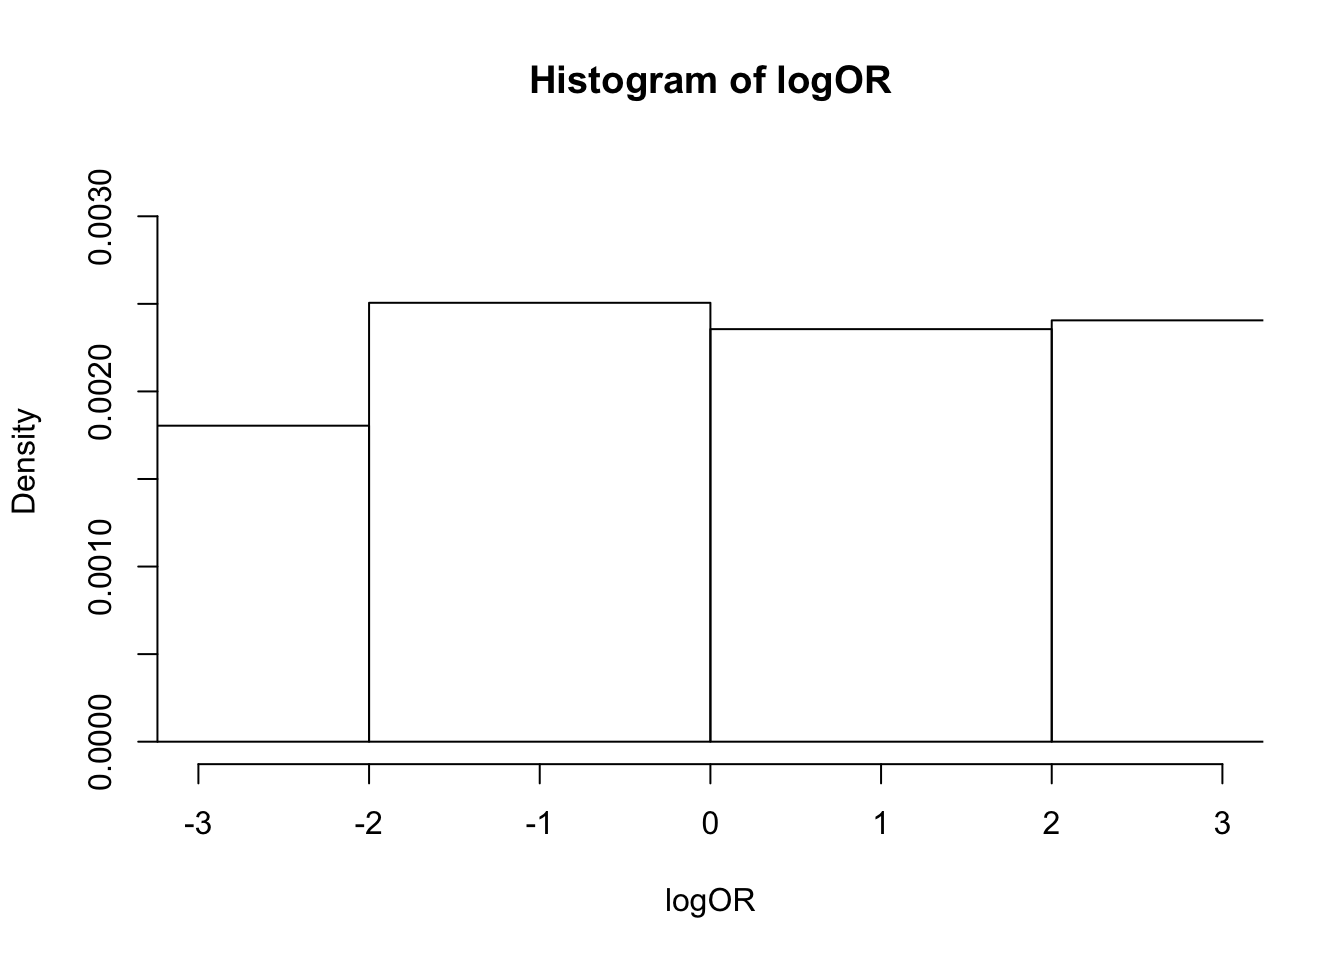
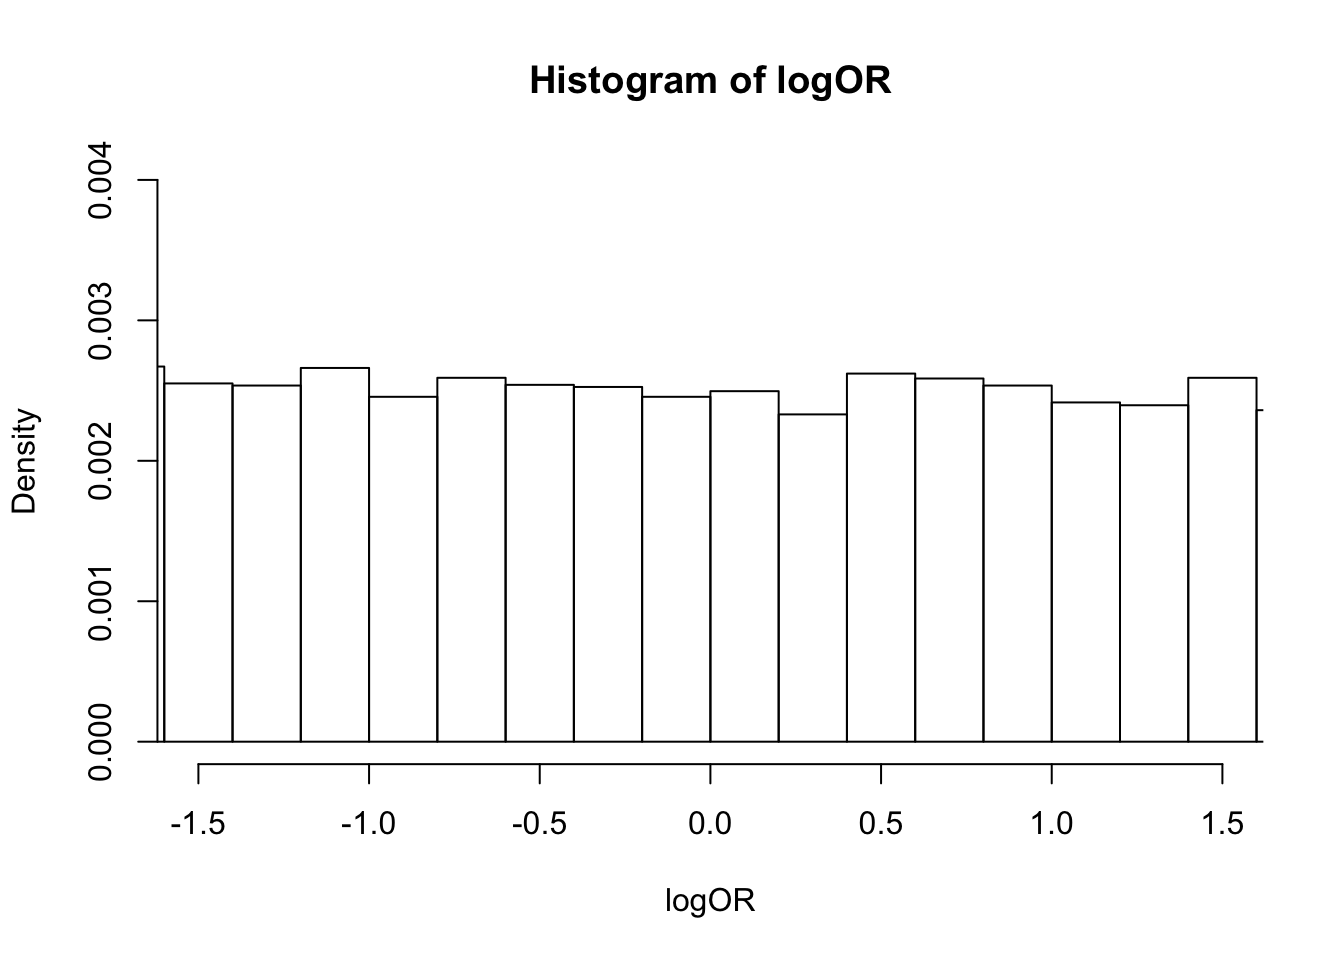
Build site.

diff --git a/docs/trick.html b/docs/trick.html
@@ -353,7 +353,7 @@ div.section {
 <div class="tab-content">
 <div id="summary" class="tab-pane fade in active">
 <p>
-<strong>Last updated:</strong> 2019-07-07
+<strong>Last updated:</strong> 2019-07-08
 </p>
 <p>
 <strong>Checks:</strong> <span class="glyphicon glyphicon-ok text-success" aria-hidden="true"></span> 6 <span class="glyphicon glyphicon-exclamation-sign text-danger" aria-hidden="true"></span> 0
@@ -432,10 +432,10 @@ This reproducible <a href="http://rmarkdown.rstudio.com">R Markdown</a> analysis
 <div class="panel panel-default">
 <div class="panel-heading">
 <p class="panel-title">
-<a data-toggle="collapse" data-parent="#workflowr-checks" href="#strongRepositoryversionstrongahrefhttpsgithubcomsurbutnejmtreeda11f1fd7d65dbf8a8b9609016c417c1a2b1150ftargetblankda11f1fa"> <span class="glyphicon glyphicon-ok text-success" aria-hidden="true"></span> <strong>Repository version:</strong> <a href="https://github.com/surbut/nejm/tree/da11f1fd7d65dbf8a8b9609016c417c1a2b1150f" target="_blank">da11f1f</a> </a>
+<a data-toggle="collapse" data-parent="#workflowr-checks" href="#strongRepositoryversionstrongahrefhttpsgithubcomsurbutnejmtreea7eb1261b76b264e1ce67e476dbbb4e72810636dtargetblanka7eb126a"> <span class="glyphicon glyphicon-ok text-success" aria-hidden="true"></span> <strong>Repository version:</strong> <a href="https://github.com/surbut/nejm/tree/a7eb1261b76b264e1ce67e476dbbb4e72810636d" target="_blank">a7eb126</a> </a>
 </p>
 </div>
[2 lines of base64/hex data omitted]
 <div class="panel-body">
 <p>
 Great! You are using Git for version control. Tracking code development and connecting the code version to the results is critical for reproducibility. The version displayed above was the version of the Git repository at the time these results were generated. <br><br> Note that you need to be careful to ensure that all relevant files for the analysis have been committed to Git prior to generating the results (you can use <code>wflow_publish</code> or <code>wflow_git_commit</code>). workflowr only checks the R Markdown file, but you know if there are other scripts or data files that it depends on. Below is the status of the Git repository when the results were generated:
@@ -490,6 +490,40 @@ Message
 Rmd
 </td>
 <td>
+<a href="https://github.com/surbut/nejm/blob/a7eb1261b76b264e1ce67e476dbbb4e72810636d/analysis/trick.Rmd" target="_blank">a7eb126</a>
+</td>
+<td>
+Sarah Urbut
+</td>
+<td>
+2019-07-08
+</td>
+<td>
+wflow_publish(“~/nejm/analysis/trick.Rmd”)
+</td>
+</tr>
+<tr>
+<td>
+html
+</td>
+<td>
+<a href="https://rawcdn.githack.com/surbut/nejm/2fb0f466db2b1dbf3a4b76b46492ac310aa6069a/docs/trick.html" target="_blank">2fb0f46</a>
+</td>
+<td>
+Sarah Urbut
+</td>
+<td>
+2019-07-07
+</td>
+<td>
+Build site.
+</td>
+</tr>
+<tr>
+<td>
+Rmd
+</td>
+<td>
 <a href="https://github.com/surbut/nejm/blob/da11f1fd7d65dbf8a8b9609016c417c1a2b1150f/analysis/trick.Rmd" target="_blank">da11f1f</a>
 </td>
 <td>
@@ -527,25 +561,60 @@ wflow_publish(“~/nejm/analysis/trick.Rmd”)
 <p><span class="math display">\[log(p_{single})-log(1-p_{single})-log(p_{multi})-log(1-p_{multi})\]</span></p>
 <p><span class="math display">\[log(x)-log(y)-log(x2)-log(y2)\]</span></p>
 <p>then we merely generate two sets of xs and ys:</p>
-<pre class="r"><code>x = rgamma(10000,0.01,1)
+<pre class="r"><code>x = rgamma(1000000,0.01,1)
 
-y = rgamma(10000,0.01,1)
+y = rgamma(1000000,0.01,1)
 logoddssingle=log(x)-log(y)
 
 
-x2 = rgamma(10000,0.01,1)
+x2 = rgamma(1000000,0.01,1)
 
-y2 = rgamma(10000,0.01,1)
+y2 = rgamma(1000000,0.01,1)
 
 logoddsmulti=log(x2)-log(y2)
 
 logOR=logoddssingle-logoddsmulti
 
-hist(logOR,xlim=c(-3,3),nclass=1000,freq=FALSE)</code></pre>
+hist(logOR,xlim=c(-1.5,1.5),breaks = 10000,freq=FALSE,ylim=c(0,0.004))</code></pre>
 <p><img src="figure/trick.Rmd/unnamed-chunk-1-1.png" width="672" style="display: block; margin: auto;" /></p>
+<p>
+<button type="button" class="btn btn-default btn-xs btn-workflowr btn-workflowr-fig" data-toggle="collapse" data-target="#fig-unnamed-chunk-1-1">
+Past versions of unnamed-chunk-1-1.png
+</button>
+</p>
+<div id="fig-unnamed-chunk-1-1" class="collapse">
+<div class="table-responsive">
+<table class="table table-condensed table-hover">
+<thead>
+<tr>
+<th>
+Version
+</th>
+<th>
+Author
+</th>
+<th>
+Date
+</th>
+</tr>
+</thead>
+<tbody>
+<tr>
+<td>
+<a href="https://github.com/surbut/nejm/blob/2fb0f466db2b1dbf3a4b76b46492ac310aa6069a/docs/figure/trick.Rmd/unnamed-chunk-1-1.png" target="_blank">2fb0f46</a>
+</td>
+<td>
+Sarah Urbut
+</td>
+<td>
+2019-07-07
+</td>
+</tr>
+</tbody>
+</table>
+</div>
+</div>
 <p>If we then do a histogram of the nonNA logOR2 in the range of -1,1, we can see that it is ‘approximately uniform’</p>
-<pre class="r"><code>hist(logOR[logOR!=&quot;NaN&quot;],xlim=c(-1.5,1.5),breaks = 10000)</code></pre>
-<p><img src="figure/trick.Rmd/unnamed-chunk-2-1.png" width="672" style="display: block; margin: auto;" /></p>
 <br>
 <p>
 <button type="button" class="btn btn-default btn-workflowr btn-workflowr-sessioninfo" data-toggle="collapse" data-target="#workflowr-sessioninfo" style="display: block;">
